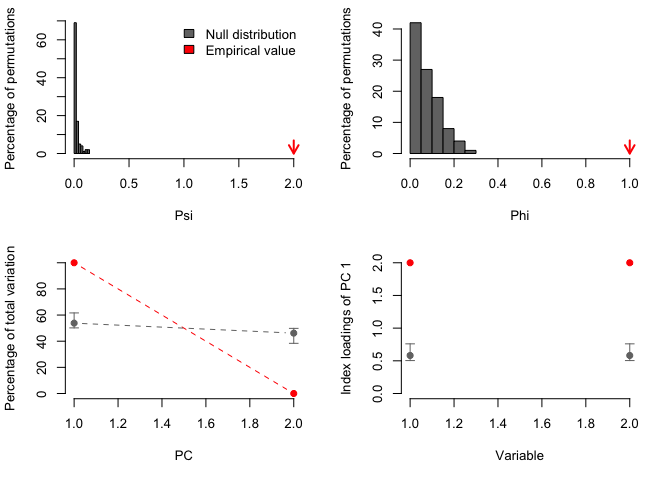
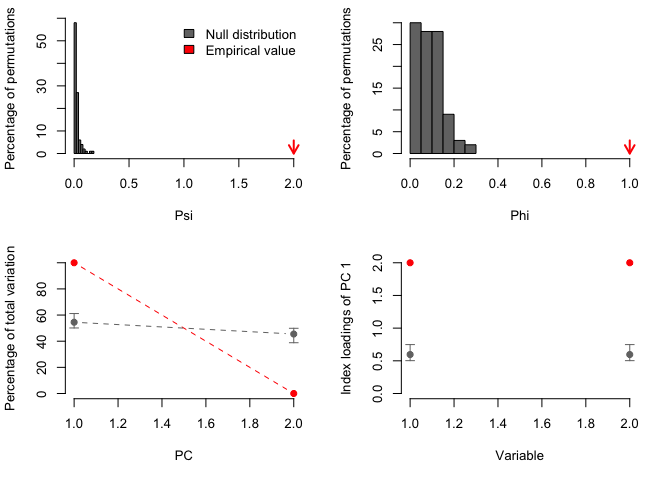
new commit

diff --git a/README.md b/README.md
@@ -13,14 +13,8 @@ significant axes based on permutation-based statistical tests.
 
 ## Installation
 
-You can install the released version of PCAtest from
-[CRAN](https://CRAN.R-project.org) with:
-
-``` r
-install.packages("PCAtest")
-```
-
-And the development version from [GitHub](https://github.com/) with:
+You can install the released and the development versions from
+[GitHub](https://github.com/) with:
 
 ``` r
 # install.packages("devtools")
@@ -28,8 +22,6 @@ devtools::install_github("arleyc/PCAtest")
 ```
 
 ## Example
-
-This is a basic example which shows you how to solve a common problem:
 
 ``` r
 library(PCAtest)
@@ -44,8 +36,10 @@ result<-PCAtest(x, 100, 100, 0.05, corr=FALSE, plot=TRUE)
 #> 100 bootstrap replicates, 100 random permutations
 #> ========================================================
 #> 
-#> Empirical Psi = 0.0161, Max null Psi = 0.2477, Min null Psi = 0.0000, p-value = 0.4
-#> Empirical Phi = 0.0897, Max null Phi = 0.3519, Min null Phi = 9e-04, p-value = 0.4
+#> Empirical Psi = 5e-04, Max null Psi = 0.1572, Min null Psi = 0.0000, p-value = 0.85
+#> Empirical Phi = 0.0158, Max null Phi = 0.2804, Min null Phi = 1e-04, p-value = 0.85
+#> 
+#> PCA is not significant!
 ```
 
 <img src="man/figures/README-example1-1.png" width="100%" />
@@ -62,11 +56,11 @@ PCAout<-PCAtest(x, 100, 100, 0.05, corr=FALSE, plot=TRUE)
 #> 100 bootstrap replicates, 100 random permutations
 #> ========================================================
 #> 
-#> Empirical Psi = 2.0000, Max null Psi = 0.1354, Min null Psi = 0.0000, p-value = 0
-#> Empirical Phi = 1.0000, Max null Phi = 0.2602, Min null Phi = 8e-04, p-value = 0
+#> Empirical Psi = 2.0000, Max null Psi = 0.1617, Min null Psi = 0.0000, p-value = 0
+#> Empirical Phi = 1.0000, Max null Phi = 0.2843, Min null Phi = 3e-04, p-value = 0
 #> 
-#> Empirical eigenvalue #1 = 2, Max null eigenvalue = 1.26021, p-value = 0
-#> Empirical eigenvalue #2 = 0, Max null eigenvalue = 0.99924, p-value = 1
+#> Empirical eigenvalue #1 = 2, Max null eigenvalue = 1.2843, p-value = 0
+#> Empirical eigenvalue #2 = 0, Max null eigenvalue = 0.99966, p-value = 1
 #> 
 #> PC 1 is significant and accounts for 100% (95%-CI:100-100) of the total variation
 #> 
